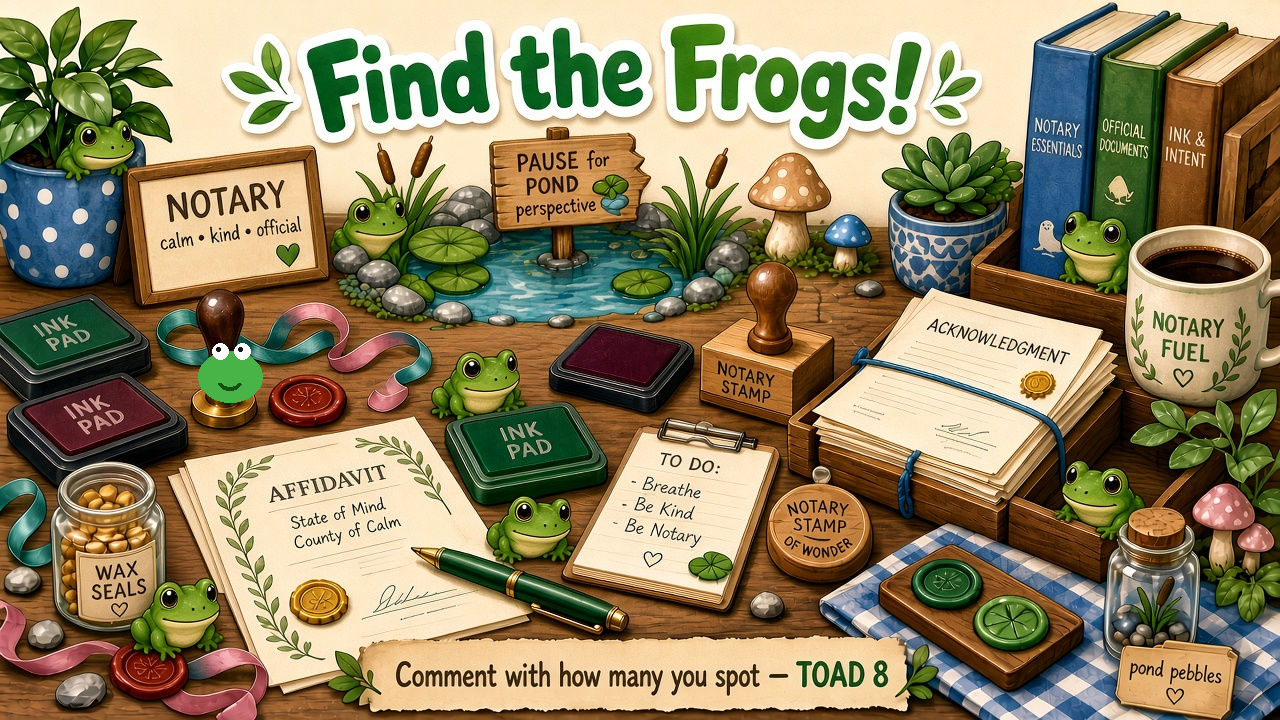
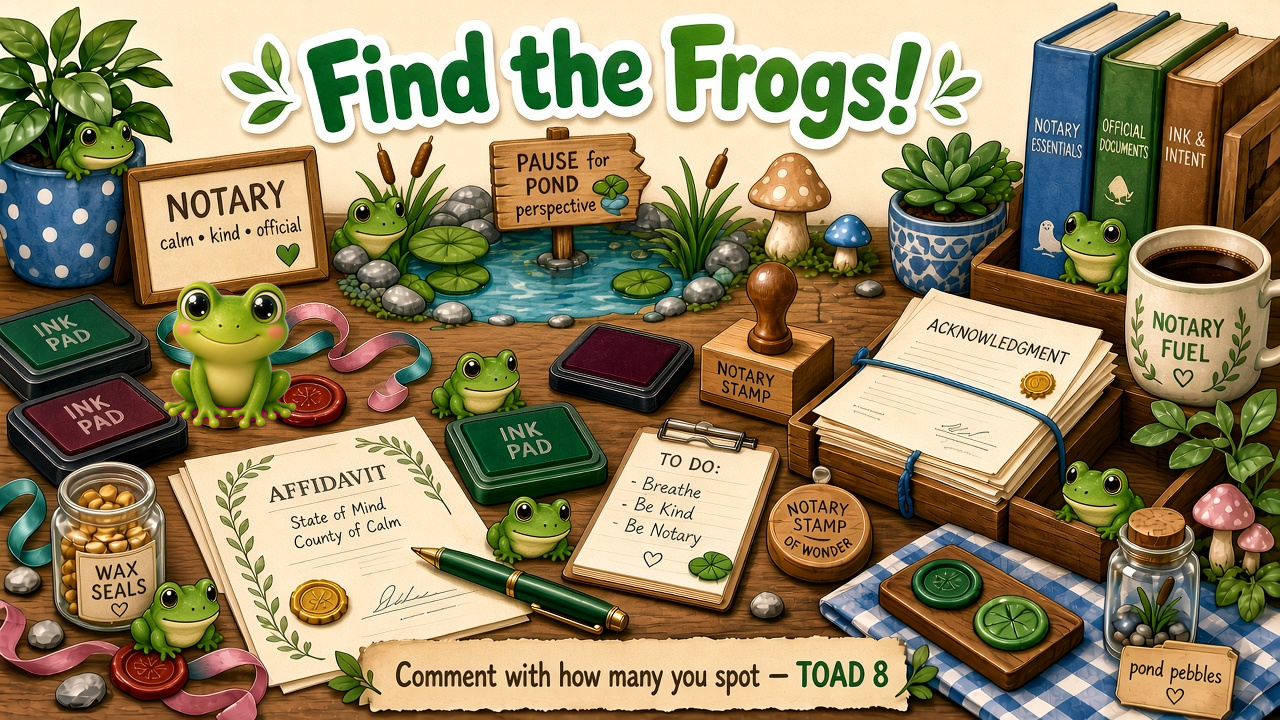
Fix frog taps and replace the flat stamp frog. (#3)
Give the stamp a cute 3D frog, and retarget every hitbox so the ink-pad frog and the other frogs on the desk all register at phone size.

Changed region(s): [[0.125, 0.3972, 0.25, 0.6111]]

diff --git a/find-the-frogs/index.html b/find-the-frogs/index.html
@@ -5,19 +5,19 @@
 <meta name="viewport" content="width=device-width, initial-scale=1, viewport-fit=cover">
 <meta name="theme-color" content="#1f93ef">
 <title>Find the Frogs! · TOAD 8</title>
-<meta name="description" content="Tap the eight frogs hiding on a notary's desk. A cozy browser game from TOAD 8 Notaries &amp; Services.">
+<meta name="description" content="Tap the frogs hiding on a notary's desk. A cozy browser game from TOAD 8 Notaries &amp; Services.">
 <meta property="og:type" content="website">
 <meta property="og:site_name" content="TOAD 8 Brain Games">
 <meta property="og:title" content="Find the Frogs! · TOAD 8">
-<meta property="og:description" content="Tap the eight frogs hiding on a notary's desk.">
+<meta property="og:description" content="Tap the frogs hiding on a notary's desk.">
 <meta property="og:url" content="https://agenttoad8.github.io/toad8-games/find-the-frogs/">
 <meta property="og:image" content="https://agenttoad8.github.io/toad8-games/find-the-frogs/board.png">
 <meta property="og:image:width" content="1280">
 <meta property="og:image:height" content="720">
-<meta property="og:image:alt" content="A cozy notary desk and pond, with eight green frogs hiding in the picture.">
+<meta property="og:image:alt" content="A cozy notary desk and pond, with cute green frogs hiding in the picture.">
 <meta name="twitter:card" content="summary_large_image">
 <meta name="twitter:title" content="Find the Frogs! · TOAD 8">
-<meta name="twitter:description" content="Tap the eight frogs hiding on a notary's desk.">
+<meta name="twitter:description" content="Tap the frogs hiding on a notary's desk.">
 <meta name="twitter:image" content="https://agenttoad8.github.io/toad8-games/find-the-frogs/board.png">
 <style>
   :root {
@@ -243,8 +243,8 @@
 <body>
   <header>
     <h1>Find the Frogs!</h1>
-    <p id="count" aria-live="polite">Found 0/8</p>
-    <p class="help">Eight green frogs are hiding on the desk. Tap each one you spot.</p>
+    <p id="count" aria-live="polite">Found 0/9</p>
+    <p class="help">Nine green frogs are hiding on the desk. Tap each one you spot.</p>
     <div class="tools">
       <button type="button" id="hint">Hint</button>
       <button type="button" id="zoom" aria-label="Zoom in">Zoom</button>
@@ -253,7 +253,7 @@
   <div id="stage">
     <div id="shake">
       <div id="board">
-        <img src="board.png" alt="A cozy notary desk beside a little pond. Eight green frogs are hidden in the picture." width="1280" height="720">
+        <img src="board.png" alt="A cozy notary desk beside a little pond. Cute green frogs are hidden in the picture." width="1280" height="720">
       </div>
     </div>
   </div>
@@ -262,7 +262,7 @@
     <div class="card" role="dialog" aria-modal="true" aria-labelledby="win-title">
       <div id="confetti"></div>
       <h2 id="win-title">You found every frog!</h2>
-      <p>All eight were hiding on the desk. Nice eyes.</p>
+      <p>Every frog on the desk is home. Nice eyes.</p>
       <button type="button" id="again">Play again</button>
     </div>
   </div>
@@ -273,14 +273,15 @@
   var IMG_H = 720;
   // Centers and radii in pixels of board.png. Each ellipse covers one frog.
   var FROGS = [
-    { id: "pot", x: 118, y: 120, rx: 64, ry: 56 },
-    { id: "pond", x: 400, y: 210, rx: 72, ry: 58 },
-    { id: "crate", x: 1072, y: 242, rx: 62, ry: 55 },
-    { id: "spring", x: 230, y: 380, rx: 66, ry: 58 },
-    { id: "affidavit", x: 510, y: 568, rx: 80, ry: 62 },
-    { id: "jar", x: 156, y: 618, rx: 58, ry: 52 },
-    { id: "papers", x: 1108, y: 518, rx: 78, ry: 60 },
-    { id: "cloth", x: 1248, y: 656, rx: 48, ry: 62 }
+    { id: "pot", x: 120, y: 135, rx: 72, ry: 58 },
+    { id: "pond", x: 410, y: 230, rx: 85, ry: 60 },
+    { id: "crate", x: 1095, y: 245, rx: 75, ry: 62 },
+    { id: "stamp", x: 230, y: 350, rx: 75, ry: 78 },
+    { id: "ink", x: 575, y: 478, rx: 95, ry: 82 },
+    { id: "pen", x: 555, y: 592, rx: 70, ry: 50 },
+    { id: "jar", x: 172, y: 618, rx: 62, ry: 52 },
+    { id: "papers", x: 1070, y: 515, rx: 75, ry: 55 },
+    { id: "cloth", x: 1220, y: 605, rx: 58, ry: 48 }
   ];
 
   var stage = document.getElementById("stage");
@@ -366,7 +367,7 @@
 
   function updateCount() {
     var n = Object.keys(found).length;
-    countEl.textContent = "Found " + n + "/8";
+    countEl.textContent = "Found " + n + "/" + FROGS.length;
   }
 
   function place(el, frog, grow) {

diff --git a/index.html b/index.html
@@ -143,7 +143,7 @@
       <a class="game" href="find-the-frogs/">
         <p class="eyebrow">Hidden frogs</p>
         <h2>Find the Frogs!</h2>
-        <p>Eight frogs are tucked into a notary’s desk. Tap each one you spot.</p>
+        <p>Cute green frogs are tucked into a notary’s desk. Tap each one you spot.</p>
         <span class="play">Play</span>
       </a>
     </div>

diff --git a/README.md b/README.md
@@ -3,7 +3,7 @@
 Short browser games from TOAD 8 Notaries & Services.
 
 - [Help the frog home!](frog-pond/) — tap lily pads to hop a frog to the TOAD 8 dock.
-- [Find the Frogs!](find-the-frogs/) — tap the eight frogs hiding on a notary’s desk.
+- [Find the Frogs!](find-the-frogs/) — tap the frogs hiding on a notary’s desk.
 
 Published with GitHub Pages from `main`:
 
